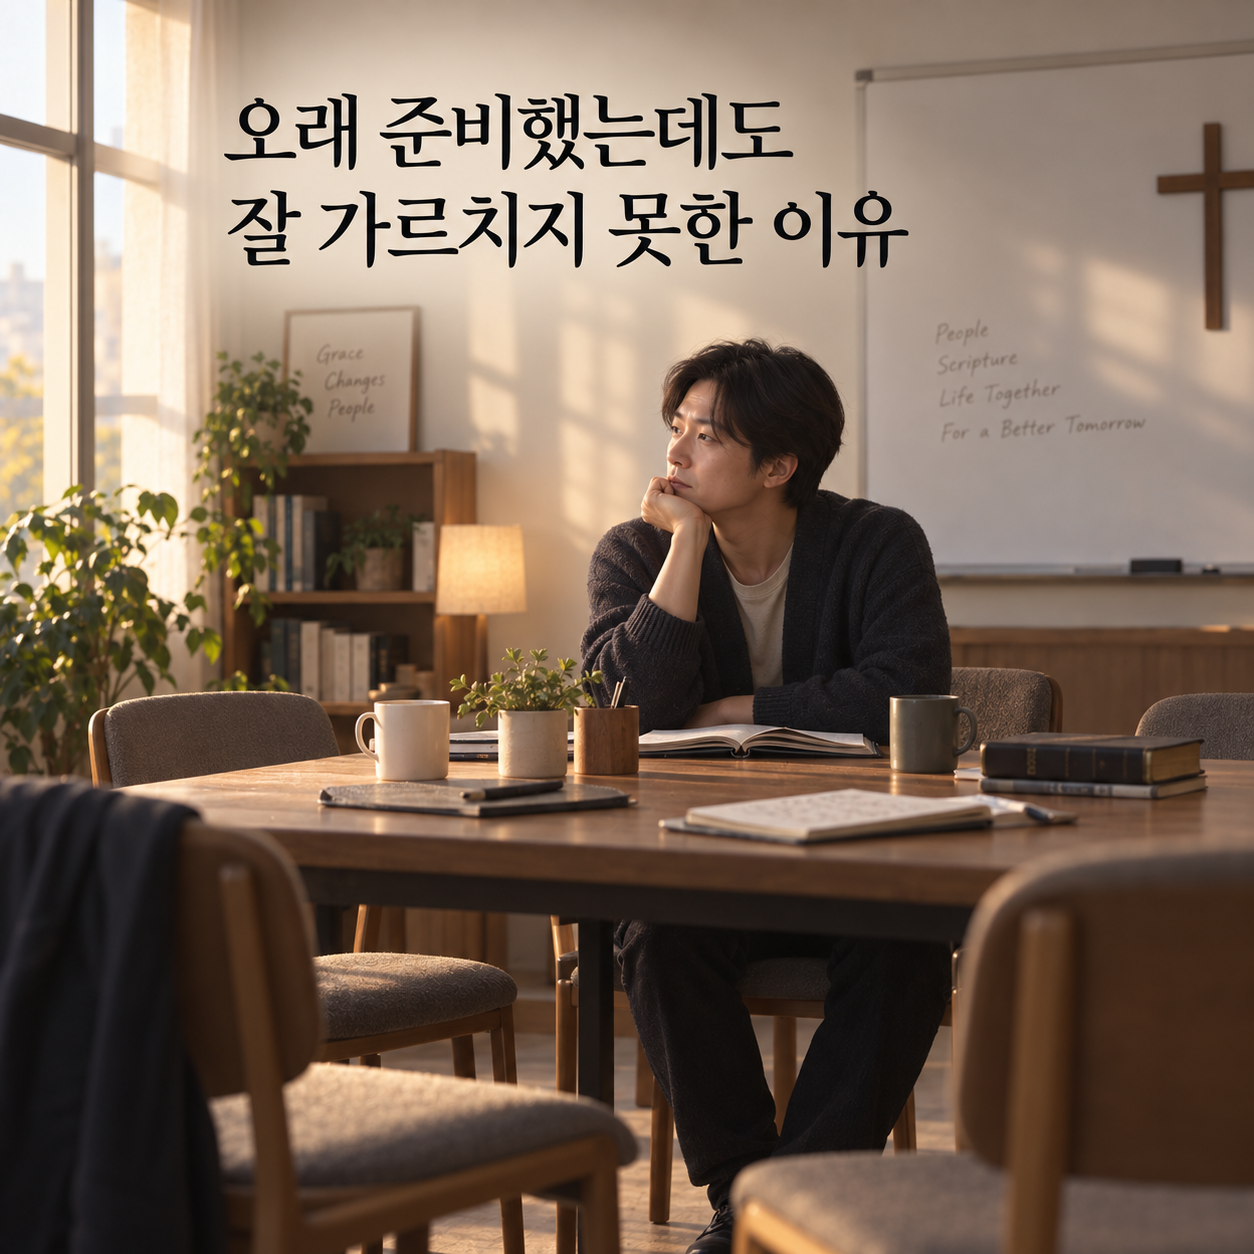
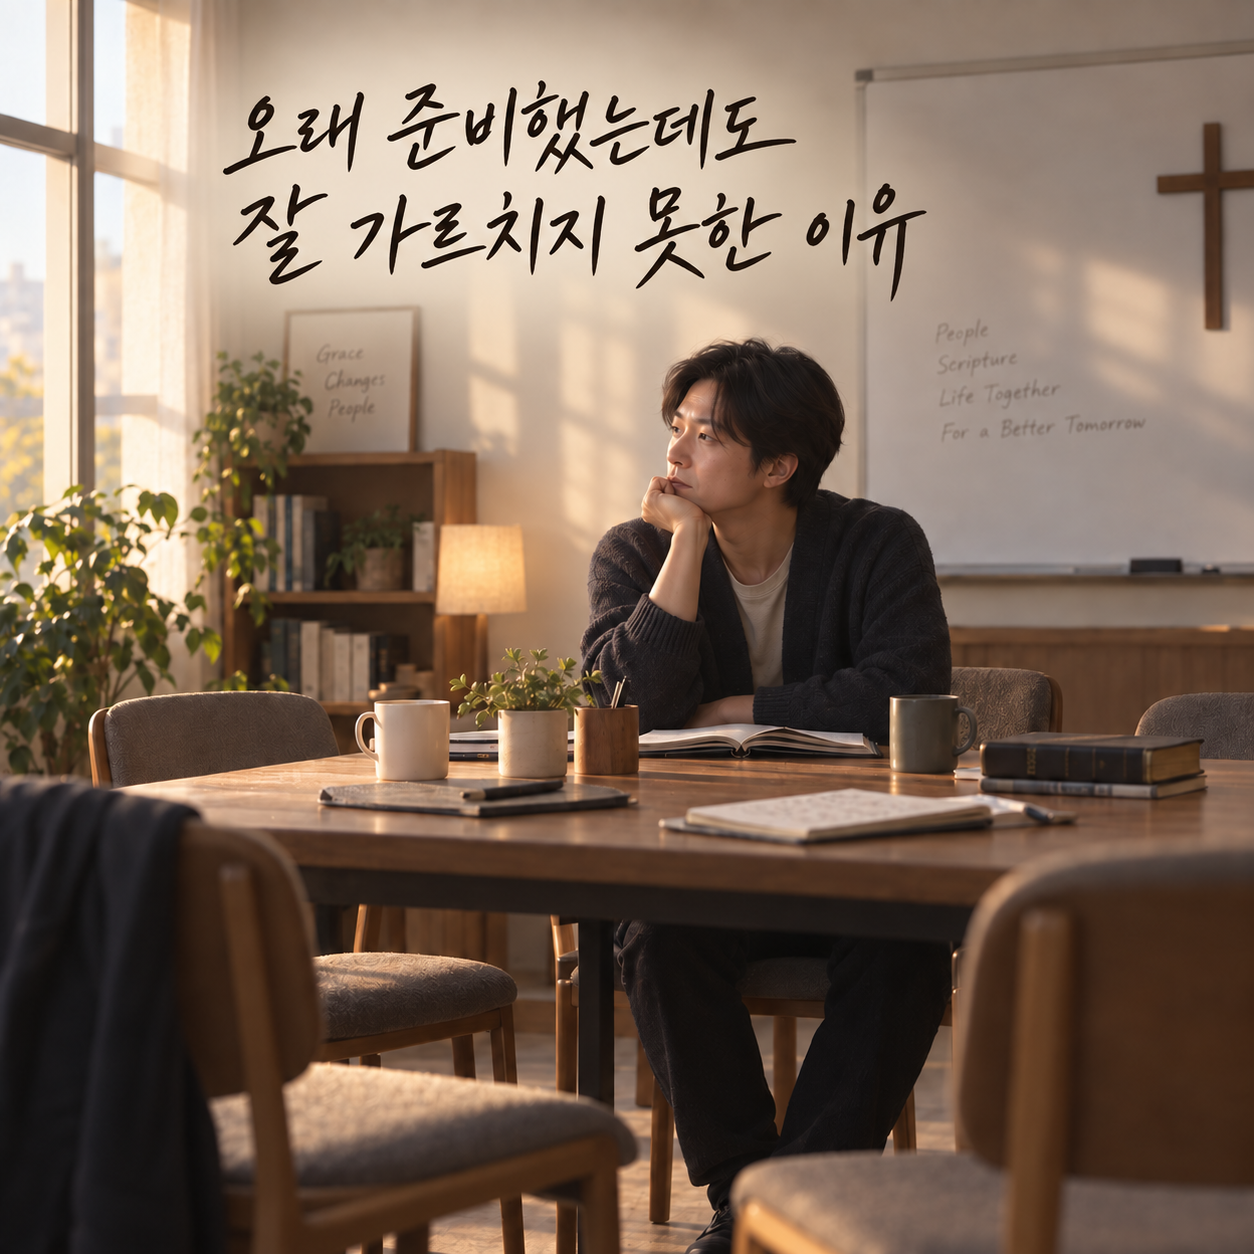
Use handwritten title on 008 cover

Changed region(s): [[0.1866, 0.0622, 0.7464, 0.2488], [0.3732, 0.4976, 0.4976, 0.5909], [0.5287, 0.9952, 0.5598, 1.0]]

diff --git a/contents/008-deliberate-practice/05_image_prompt.md b/contents/008-deliberate-practice/05_image_prompt.md
@@ -15,7 +15,7 @@
 - 늦은 오후의 부드러운 자연광
 - 따뜻한 회색과 빛바랜 청색 중심의 절제된 색감
 - 이미지 안에 제목, 문구, 로고, 워터마크를 넣지 않음
-- 제목 `오래 준비했는데도 잘 가르치지 못한 이유`를 상단 여백에 읽기 쉬운 편집형 타이포그래피로 배치
+- 제목 `오래 준비했는데도 잘 가르치지 못한 이유`를 상단 여백에 자연스러운 손글씨 붓펜 타이포그래피로 배치
 
 ## 최종 파일
 
@@ -23,4 +23,4 @@
 
 ## 생성 프롬프트
 
-Use case: photorealistic-natural. A quiet, emotionally honest small-group meeting room scene symbolizing the gap between preparing good content and actually teaching it well. A modest church or community small-group room after a session, a shared table, 4–6 simple chairs, notebooks and discussion materials, a soft wall or whiteboard in the background. An East Asian male small-group leader in his 30s–40s, wearing a casual cardigan, sits quietly and reflects on the conversation. His posture suggests humility and a desire to try again. Restrained documentary editorial photography, realistic Korean community-room atmosphere, natural human proportions, subtle film grain. Square composition with the man and table near the center, important subject matter kept within the central safe area so a 4:1 horizontal crop still preserves the emotional meaning. Soft late-afternoon window light, muted warm gray and desaturated blue palette, contemplative, slightly regretful but hopeful. Add the exact Korean title `오래 준비했는데도 잘 가르치지 못한 이유` in clean, highly legible editorial typography in the upper negative space. No extra words, no logos, no watermark, no recognizable minors, no classroom desks, no school setting, no stock-photo smile, no exaggerated sadness, no colorful illustration, no clutter.
+Use case: photorealistic-natural. A quiet, emotionally honest small-group meeting room scene symbolizing the gap between preparing good content and actually teaching it well. A modest church or community small-group room after a session, a shared table, 4–6 simple chairs, notebooks and discussion materials, a soft wall or whiteboard in the background. An East Asian male small-group leader in his 30s–40s, wearing a casual cardigan, sits quietly and reflects on the conversation. His posture suggests humility and a desire to try again. Restrained documentary editorial photography, realistic Korean community-room atmosphere, natural human proportions, subtle film grain. Square composition with the man and table near the center, important subject matter kept within the central safe area so a 4:1 horizontal crop still preserves the emotional meaning. Soft late-afternoon window light, muted warm gray and desaturated blue palette, contemplative, slightly regretful but hopeful. Add the exact Korean title `오래 준비했는데도 잘 가르치지 못한 이유` in clearly legible, elegant Korean brush-pen handwriting in the upper negative space, with natural handwritten strokes and a refined editorial book-cover feel. No extra words, no logos, no watermark, no recognizable minors, no classroom desks, no school setting, no stock-photo smile, no exaggerated sadness, no colorful illustration, no clutter.
